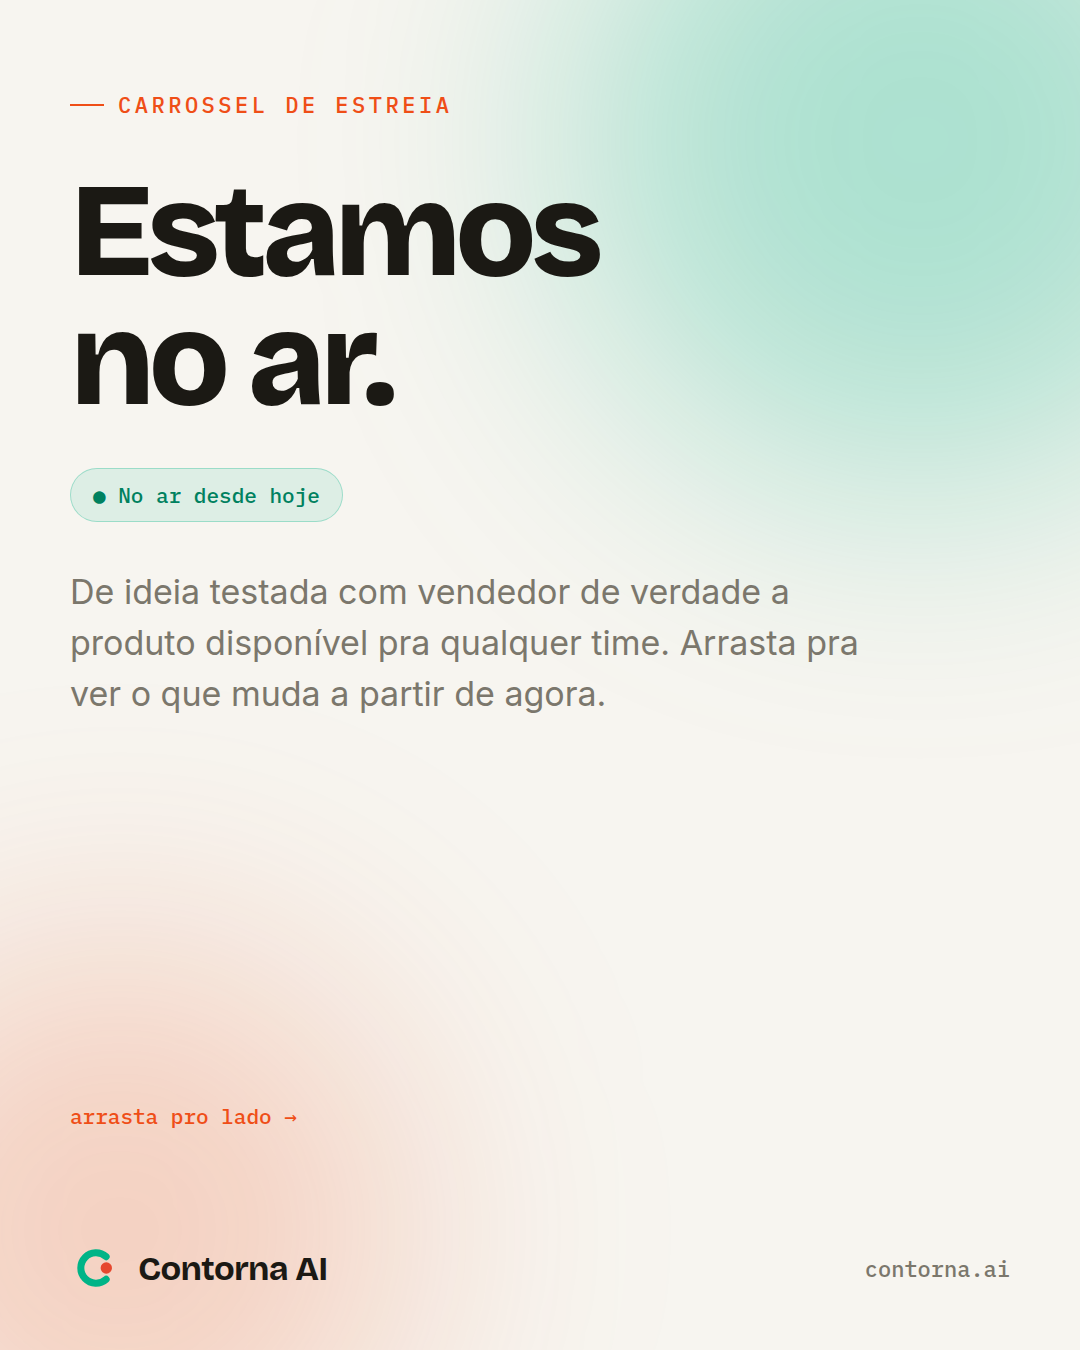
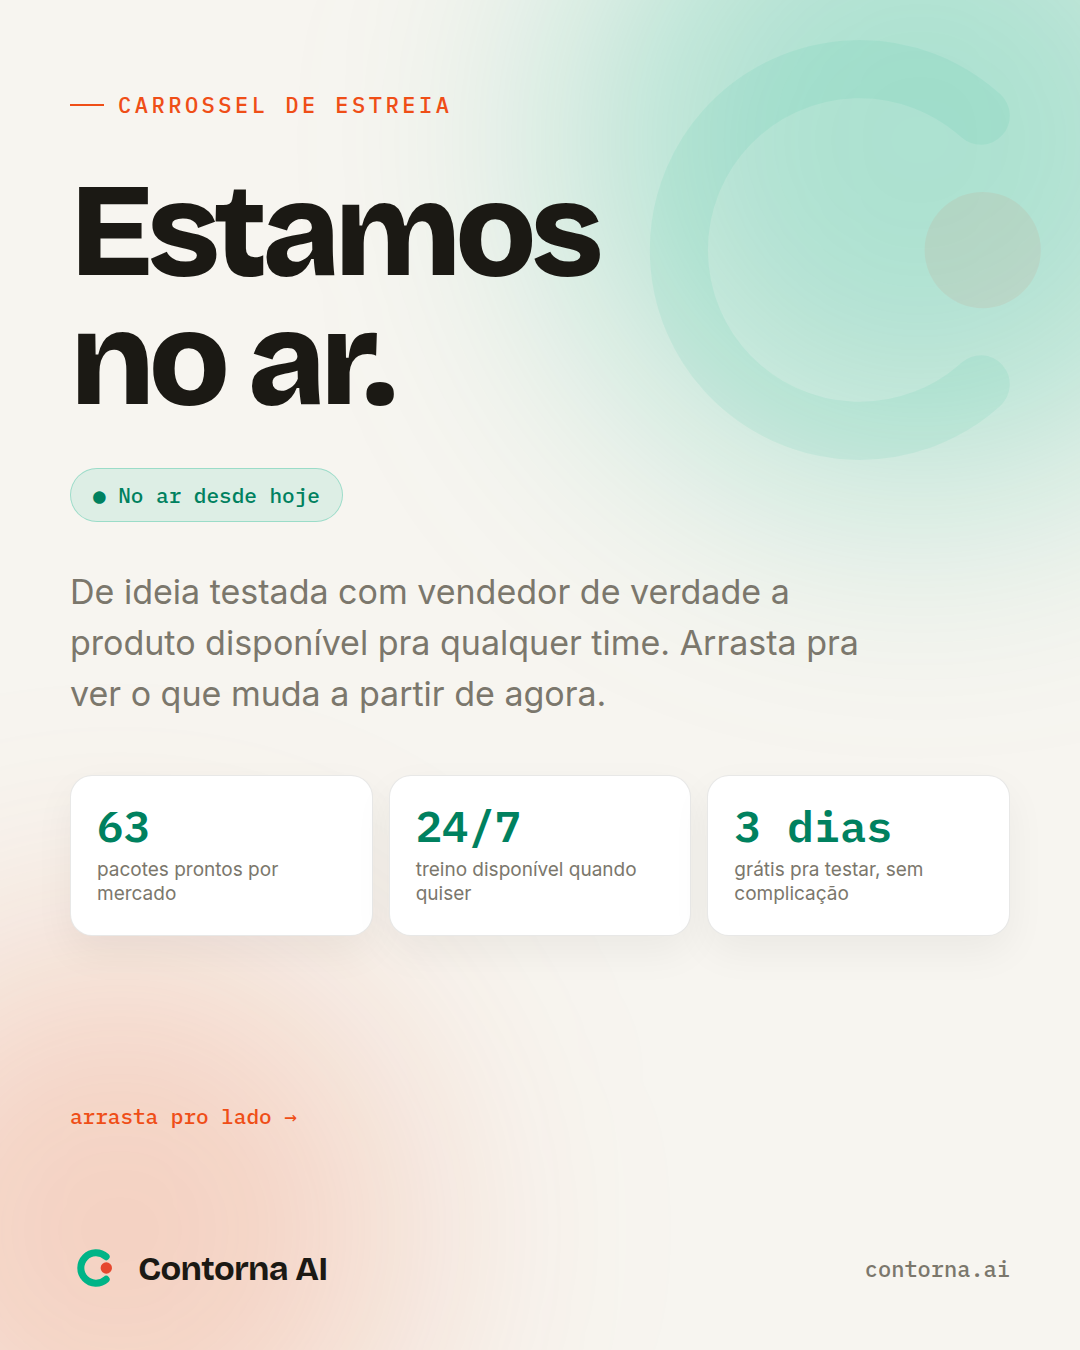
Enriquece a capa "Estamos no ar" do carrossel de estreia
Estava com espaço vazio demais na metade inferior. Adiciona:
- Marca d'água decorativa (o próprio símbolo, grande e translúcido)
  no canto superior direito, atrás do texto
- Bloco de 3 estatísticas do produto (63 pacotes, 24/7, 3 dias
  grátis) preenchendo o espaço abaixo do subtítulo — fatos reais do
  produto, não números de tração inventados
- Mantém o badge "no ar desde hoje" e o hint de swipe

Regenera feed/carrossel-estreia1-capa.png.

Changed region(s): [[0.0611, 0.5911, 0.3361, 0.7156], [0.6722, 0.5911, 0.8556, 0.6844], [0.3667, 0.5911, 0.5806, 0.6844]]

diff --git a/marketing/instagram/src/artes.html b/marketing/instagram/src/artes.html
@@ -225,9 +225,17 @@
 
   /* ---- CARROSSEL DE ESTREIA — CAPA ---- */
   #estreia1 .inner{ position:absolute; inset:0; padding:90px 70px; display:flex; flex-direction:column; }
-  #estreia1 h1{ font-size:132px; font-weight:800; letter-spacing:-.045em; line-height:.98; margin-top:48px; }
-  #estreia1 .badge{ margin-top:42px; }
-  #estreia1 .sub{ color:var(--dim); font-size:34px; line-height:1.5; margin-top:44px; max-width:840px; }
+  #estreia1 .ghost{ position:absolute; top:-60px; right:-90px; width:620px; height:620px; opacity:.07; z-index:0; }
+  #estreia1 h1{ font-size:132px; font-weight:800; letter-spacing:-.045em; line-height:.98; margin-top:48px; position:relative; z-index:1; }
+  #estreia1 .badges{ display:flex; gap:14px; flex-wrap:wrap; margin-top:42px; position:relative; z-index:1; }
+  #estreia1 .sub{ color:var(--dim); font-size:34px; line-height:1.5; margin-top:44px; max-width:840px; position:relative; z-index:1; }
+  #estreia1 .stats{ display:flex; gap:16px; margin-top:56px; position:relative; z-index:1; }
+  #estreia1 .stat{
+    flex:1; background:#fff; border:1.5px solid var(--line); border-radius:22px;
+    padding:28px 26px; box-shadow:0 16px 40px rgba(27,25,20,.05);
+  }
+  #estreia1 .stat .n{ font-family:'IBM Plex Mono',monospace; font-weight:600; font-size:44px; color:#00815F; line-height:1; }
+  #estreia1 .stat .l{ margin-top:10px; font-size:19px; color:var(--dim); line-height:1.3; }
 </style>
 </head>
 <body>
@@ -603,11 +611,19 @@
 <div class="board pt car" id="estreia1">
   <div class="blob g" style="width:700px;height:700px;top:-210px;right:-190px;"></div>
   <div class="blob o" style="width:580px;height:580px;bottom:-170px;left:-170px;"></div>
+  <svg class="ghost" viewBox="0 0 96 96" fill="none"><path d="M66.7 27.2 A28 28 0 1 0 66.7 68.8" stroke="#00B487" stroke-width="9" stroke-linecap="round"/><circle cx="67" cy="48" r="9" fill="#E6482F"/></svg>
   <div class="inner">
     <span class="eyebrow">Carrossel de estreia</span>
     <h1 class="display">Estamos<br>no ar.</h1>
-    <div class="badge"><span class="chip">● No ar desde hoje</span></div>
+    <div class="badges">
+      <span class="chip">● No ar desde hoje</span>
+    </div>
     <p class="sub">De ideia testada com vendedor de verdade a produto disponível pra qualquer time. Arrasta pra ver o que muda a partir de agora.</p>
+    <div class="stats">
+      <div class="stat"><div class="n">63</div><div class="l">pacotes prontos por mercado</div></div>
+      <div class="stat"><div class="n">24/7</div><div class="l">treino disponível quando quiser</div></div>
+      <div class="stat"><div class="n">3 dias</div><div class="l">grátis pra testar, sem complicação</div></div>
+    </div>
     <div class="car-swipe">arrasta pro lado →</div>
     <div class="brand-footer">
       <div class="brand-lock">
